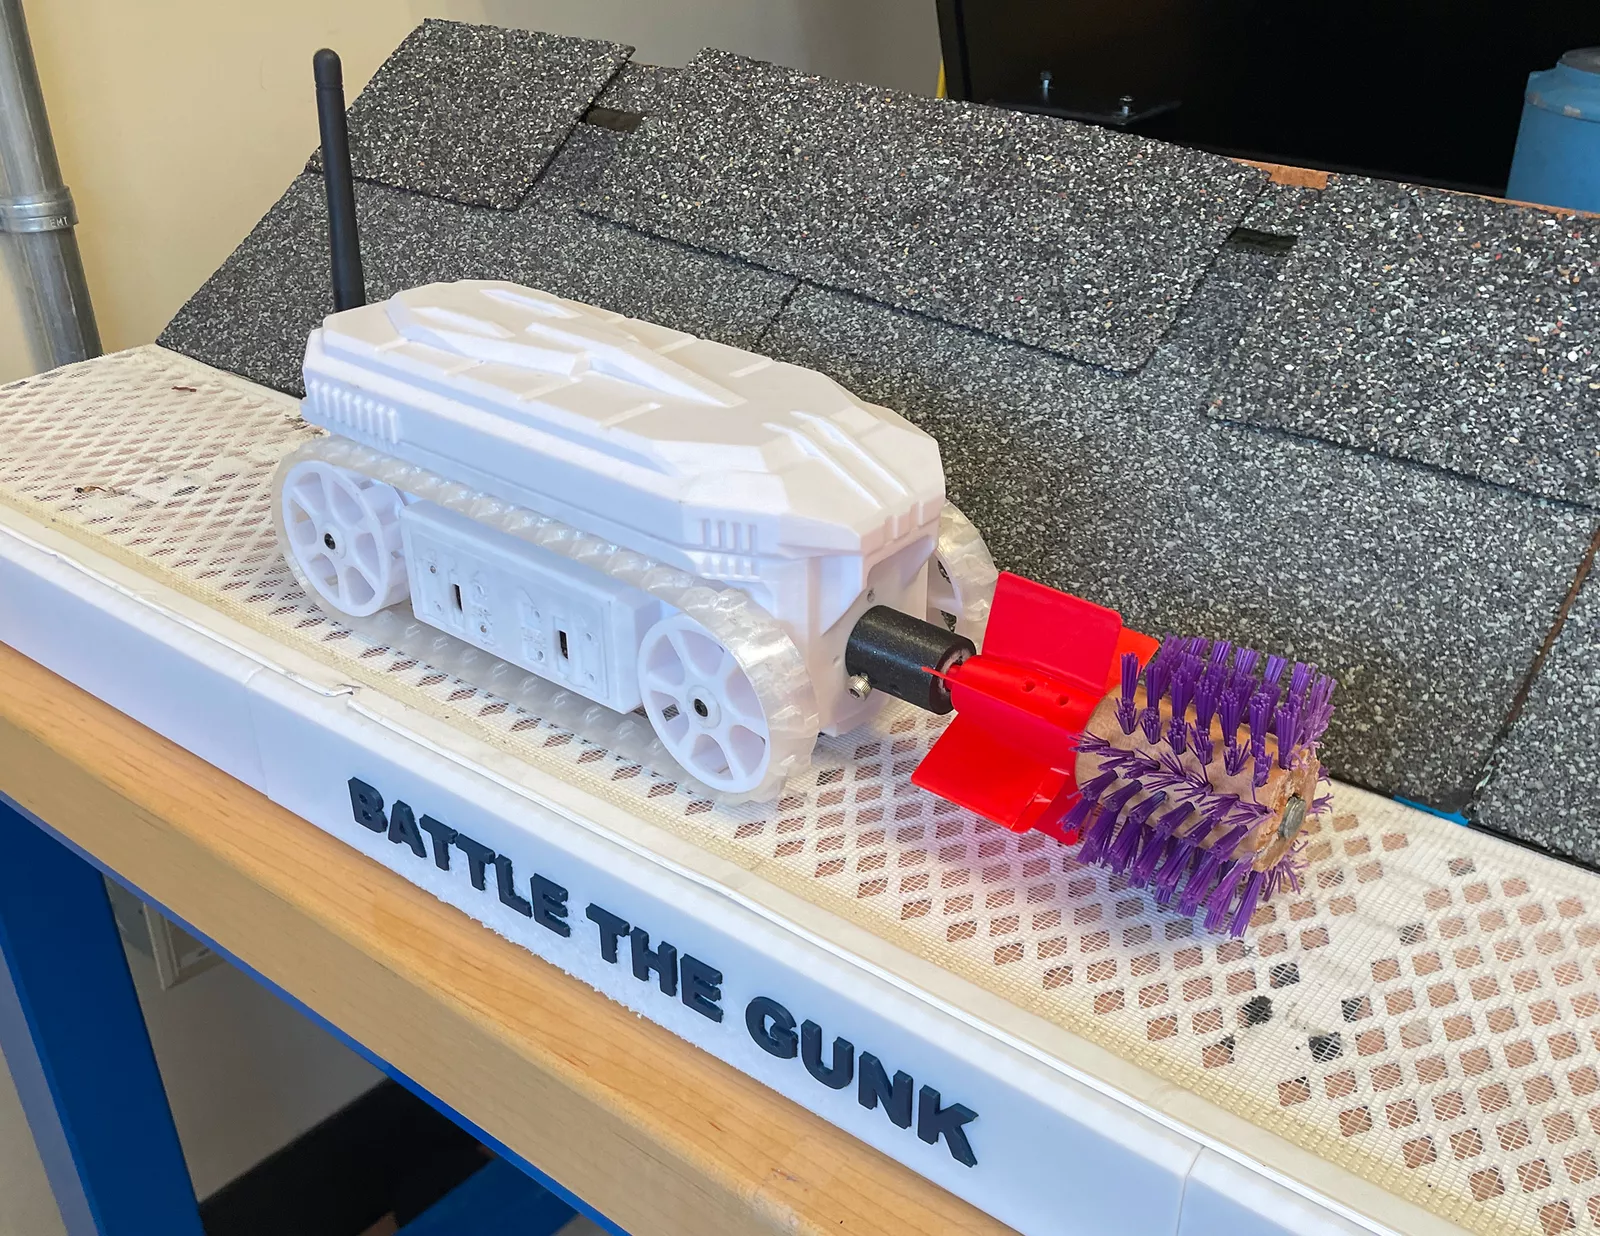
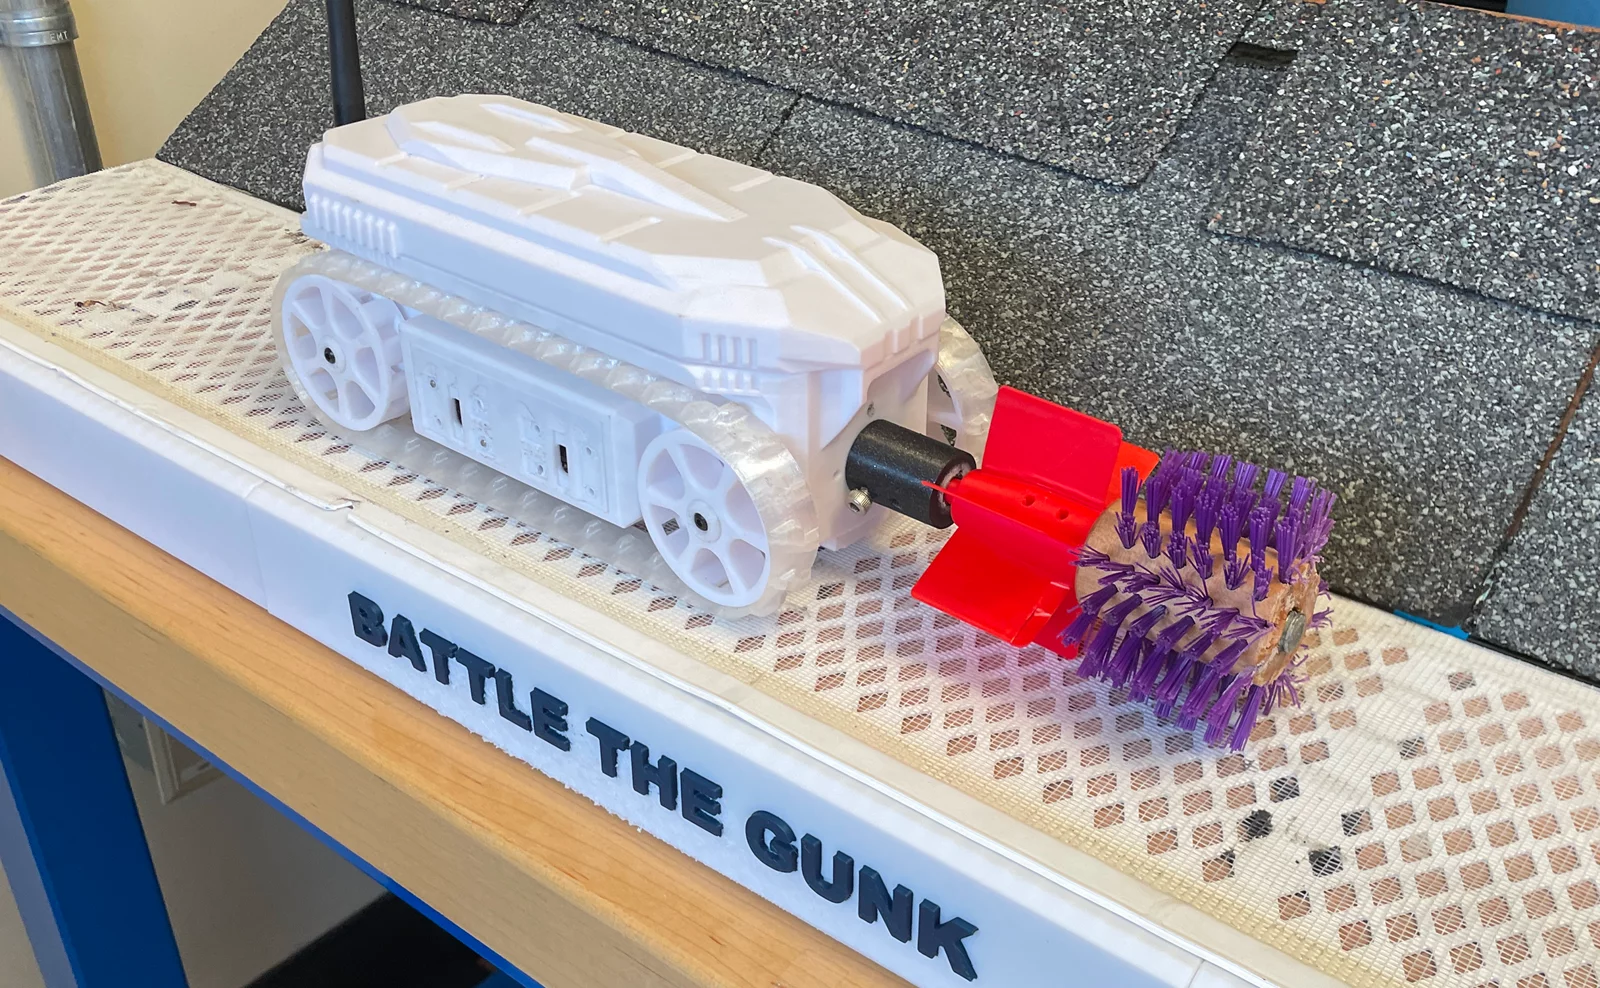
LEGO: library model photo as the first slide; capstone: crop test rig photo, rename heading

diff --git a/projects/lego.html b/projects/lego.html
@@ -40,7 +40,7 @@
       </div>
     </section>
     <section class="text print full">
-        <div class="split flip first"><figure class="gallery split-pic" aria-roledescription="carousel" aria-label="Shell-ejecting builds"><div class="track"><div class="slide"><img src="../images/3-lego-ump.gif" alt="LEGO UMP: shell ejection and blowback" loading="lazy"><span class="slide-cap">UMP (2026)</span></div><div class="slide"><img src="../images/lego-scar-h.gif" alt="LEGO SCAR-H: firing pin blowback and shell ejection" loading="lazy"><span class="slide-cap">SCAR-H (2021)</span></div><div class="slide"><img src="../images/lego-smg.gif" alt="LEGO SMG: shell ejection" loading="lazy"><span class="slide-cap">SMG (2021)</span></div><div class="slide"><img src="../images/lego-ak12.gif" alt="LEGO AK-12: blowback and shell ejection" loading="lazy"><span class="slide-cap">AK-12 (2022)</span></div><div class="slide"><img src="../images/lego-g36c.gif" alt="LEGO G36C: realistic cycling, shell ejection and blowback" loading="lazy"><span class="slide-cap">G36 (2023)</span></div></div><button class="g-prev" type="button" aria-label="previous slide"><svg class="tri left" viewBox="0 0 10 9" aria-hidden="true"><path d="M0 9 L5 0 L10 9 Z"/></svg></button><button class="g-next" type="button" aria-label="next slide"><svg class="tri right" viewBox="0 0 10 9" aria-hidden="true"><path d="M0 9 L5 0 L10 9 Z"/></svg></button><div class="dots"></div><div class="motion-row"><button class="motion-toggle" type="button">pause gifs</button></div></figure><div><h2>My niche</h2><p>I focus on realistic blowback mechanisms that shoot rubber bands, cycle the bolt and eject shells. It took about 5 years, on and off, to develop a reliable mechanism (the UMP) that could cycle 10 rounds continuously, after 4 failed prototypes: the SCAR-H, SMG, AK-12 and G36C, shown here in the gallery.</p><p>It’s a delicate balance between friction, bolt/chamber design, rubber band/spring strengths and aesthetics, achieved using creative LEGO connections and the occasional sanded or custom-cut piece.</p></div></div><div class="split flip"><figure class="gallery clear wide split-pic" aria-roledescription="carousel" aria-label="Brick shooters and replicas"><div class="track"><div class="slide"><img loading="lazy" class="ink" src="../images/msr2.webp" alt="MSR LEGO replica render"></div><div class="slide"><img loading="lazy" class="ink" src="../images/lego/3.webp" alt="LEGO M4 replica render"></div><div class="slide"><img loading="lazy" class="ink" src="../images/lego/5.webp" alt="Building a LEGO replica at my desk"></div><div class="slide"><img loading="lazy" class="ink" src="../images/lego-m1911-or-m2011-2.png" alt="LEGO replica design render"></div><div class="slide"><img loading="lazy" class="ink" src="../images/lego/4.webp" alt="LEGO AKM replica, field stripped"></div></div><button class="g-prev" type="button" aria-label="previous slide"><svg class="tri left" viewBox="0 0 10 9" aria-hidden="true"><path d="M0 9 L5 0 L10 9 Z"/></svg></button><button class="g-next" type="button" aria-label="next slide"><svg class="tri right" viewBox="0 0 10 9" aria-hidden="true"><path d="M0 9 L5 0 L10 9 Z"/></svg></button><div class="dots"></div></figure><div><p>I also design compact brick shooting mechanisms (M4A4, MSR) and pure replicas, mostly to distract myself when I’m stuck on the blowback mechs… As for why guns? They’re the perfect vessel for intricate analog mechanisms. They’re interactive and incredibly satisfying when everything works as designed, and the slo-mos just look awesome.</p></div></div><div class="split flip"><figure class="gallery clear wide split-pic" aria-roledescription="carousel" aria-label="melty’s LEGO YouTube channel"><div class="track"><div class="slide"><img loading="lazy" src="../images/melty-lego-videos-1.webp" alt="Channel videos: LEGO AK-12 updates, shell-ejecting SMG, blowback mechanism and the LEGO SCAR-H (1.4M views)"></div><div class="slide"><img loading="lazy" src="../images/melty-lego-videos-2.webp" alt="Channel videos: LEGO Remington MSR sniper rifle, M1911 and M2011 pistols, and the LEGO G36"></div></div><button class="g-prev" type="button" aria-label="previous slide"><svg class="tri left" viewBox="0 0 10 9" aria-hidden="true"><path d="M0 9 L5 0 L10 9 Z"/></svg></button><button class="g-next" type="button" aria-label="next slide"><svg class="tri right" viewBox="0 0 10 9" aria-hidden="true"><path d="M0 9 L5 0 L10 9 Z"/></svg></button><div class="dots"></div></figure><div><h2>LEGO to MechE</h2><p>In senior year, I started <a href="https://meltydesigns.gumroad.com/">a website</a> to share free designs and a Discord community for young builders, to inspire them toward engineering just as LEGO guns did for me when I was younger. Taking a mechanism apart, figuring it out and improving it is one thing; having a community where people can give you feedback and new ideas, and drive collaboration, is even better. It’s something I aim to keep building through YouTube and the server.</p></div></div><h2 class="sub">More LEGO stuff</h2><div class="split flip"><figure class="gallery clear split-pic" id="more-lego" aria-roledescription="carousel" aria-label="More LEGO builds"><div class="track"><div class="slide"><img class="ink" src="../images/lego/tateuchi-library.webp" alt="LEGO scale model of the Tateuchi East Asia Library" loading="lazy"></div><div class="slide"><img class="ink" src="../images/me493-mini-poster-g4.webp" alt="TreeTop Sweets poster" loading="lazy"></div><div class="slide"><img class="ink" src="../images/lego/kiha-40.webp" alt="LEGO KiHa 40-1000 train at Maeda-Minami Station" loading="lazy"></div><div class="slide"><img class="ink" src="../images/lego/yamanote-e231.webp" alt="LEGO JR Yamanote Line E231 series trains" loading="lazy"></div></div><button class="g-prev" type="button" aria-label="previous slide"><svg class="tri left" viewBox="0 0 10 9" aria-hidden="true"><path d="M0 9 L5 0 L10 9 Z"/></svg></button><button class="g-next" type="button" aria-label="next slide"><svg class="tri right" viewBox="0 0 10 9" aria-hidden="true"><path d="M0 9 L5 0 L10 9 Z"/></svg></button><div class="dots"></div></figure><div data-desc-for="more-lego" aria-live="polite"><div><h3>Scale Model of the Tateuchi Library at UW</h3><p>A parting gift before I left for my master’s, for my time as a student assistant at the Tateuchi East Asia Library.</p></div><div hidden><h3>TreeTop Sweets</h3><p>Another build for fun, for a short capstone: a candy dispenser, now used by my undergrad ME department’s advisor to treat students to something sweet during appointments. I designed it in Studio 2.0 (LEGO CAD) over about 3 days.</p></div><div hidden><h3>KiHa 40-1000 at Maeda-Minami Station</h3><p>Inspired by the movie <i>Your Name</i>.</p></div><div hidden><h3>JR Yamanote Line E231 Series</h3><p>The classic livery of the famous Yamanote Line in Tokyo.</p></div></div></div>
+        <div class="split flip first"><figure class="gallery split-pic" aria-roledescription="carousel" aria-label="Shell-ejecting builds"><div class="track"><div class="slide"><img src="../images/3-lego-ump.gif" alt="LEGO UMP: shell ejection and blowback" loading="lazy"><span class="slide-cap">UMP (2026)</span></div><div class="slide"><img src="../images/lego-scar-h.gif" alt="LEGO SCAR-H: firing pin blowback and shell ejection" loading="lazy"><span class="slide-cap">SCAR-H (2021)</span></div><div class="slide"><img src="../images/lego-smg.gif" alt="LEGO SMG: shell ejection" loading="lazy"><span class="slide-cap">SMG (2021)</span></div><div class="slide"><img src="../images/lego-ak12.gif" alt="LEGO AK-12: blowback and shell ejection" loading="lazy"><span class="slide-cap">AK-12 (2022)</span></div><div class="slide"><img src="../images/lego-g36c.gif" alt="LEGO G36C: realistic cycling, shell ejection and blowback" loading="lazy"><span class="slide-cap">G36 (2023)</span></div></div><button class="g-prev" type="button" aria-label="previous slide"><svg class="tri left" viewBox="0 0 10 9" aria-hidden="true"><path d="M0 9 L5 0 L10 9 Z"/></svg></button><button class="g-next" type="button" aria-label="next slide"><svg class="tri right" viewBox="0 0 10 9" aria-hidden="true"><path d="M0 9 L5 0 L10 9 Z"/></svg></button><div class="dots"></div><div class="motion-row"><button class="motion-toggle" type="button">pause gifs</button></div></figure><div><h2>My niche</h2><p>I focus on realistic blowback mechanisms that shoot rubber bands, cycle the bolt and eject shells. It took about 5 years, on and off, to develop a reliable mechanism (the UMP) that could cycle 10 rounds continuously, after 4 failed prototypes: the SCAR-H, SMG, AK-12 and G36C, shown here in the gallery.</p><p>It’s a delicate balance between friction, bolt/chamber design, rubber band/spring strengths and aesthetics, achieved using creative LEGO connections and the occasional sanded or custom-cut piece.</p></div></div><div class="split flip"><figure class="gallery clear wide split-pic" aria-roledescription="carousel" aria-label="Brick shooters and replicas"><div class="track"><div class="slide"><img loading="lazy" class="ink" src="../images/msr2.webp" alt="MSR LEGO replica render"></div><div class="slide"><img loading="lazy" class="ink" src="../images/lego/3.webp" alt="LEGO M4 replica render"></div><div class="slide"><img loading="lazy" class="ink" src="../images/lego/5.webp" alt="Building a LEGO replica at my desk"></div><div class="slide"><img loading="lazy" class="ink" src="../images/lego-m1911-or-m2011-2.png" alt="LEGO replica design render"></div><div class="slide"><img loading="lazy" class="ink" src="../images/lego/4.webp" alt="LEGO AKM replica, field stripped"></div></div><button class="g-prev" type="button" aria-label="previous slide"><svg class="tri left" viewBox="0 0 10 9" aria-hidden="true"><path d="M0 9 L5 0 L10 9 Z"/></svg></button><button class="g-next" type="button" aria-label="next slide"><svg class="tri right" viewBox="0 0 10 9" aria-hidden="true"><path d="M0 9 L5 0 L10 9 Z"/></svg></button><div class="dots"></div></figure><div><p>I also design compact brick shooting mechanisms (M4A4, MSR) and pure replicas, mostly to distract myself when I’m stuck on the blowback mechs… As for why guns? They’re the perfect vessel for intricate analog mechanisms. They’re interactive and incredibly satisfying when everything works as designed, and the slo-mos just look awesome.</p></div></div><div class="split flip"><figure class="gallery clear wide split-pic" aria-roledescription="carousel" aria-label="melty’s LEGO YouTube channel"><div class="track"><div class="slide"><img loading="lazy" src="../images/melty-lego-videos-1.webp" alt="Channel videos: LEGO AK-12 updates, shell-ejecting SMG, blowback mechanism and the LEGO SCAR-H (1.4M views)"></div><div class="slide"><img loading="lazy" src="../images/melty-lego-videos-2.webp" alt="Channel videos: LEGO Remington MSR sniper rifle, M1911 and M2011 pistols, and the LEGO G36"></div></div><button class="g-prev" type="button" aria-label="previous slide"><svg class="tri left" viewBox="0 0 10 9" aria-hidden="true"><path d="M0 9 L5 0 L10 9 Z"/></svg></button><button class="g-next" type="button" aria-label="next slide"><svg class="tri right" viewBox="0 0 10 9" aria-hidden="true"><path d="M0 9 L5 0 L10 9 Z"/></svg></button><div class="dots"></div></figure><div><h2>LEGO to MechE</h2><p>In senior year, I started <a href="https://meltydesigns.gumroad.com/">a website</a> to share free designs and a Discord community for young builders, to inspire them toward engineering just as LEGO guns did for me when I was younger. Taking a mechanism apart, figuring it out and improving it is one thing; having a community where people can give you feedback and new ideas, and drive collaboration, is even better. It’s something I aim to keep building through YouTube and the server.</p></div></div><h2 class="sub">More LEGO stuff</h2><div class="split flip"><figure class="gallery clear split-pic" id="more-lego" aria-roledescription="carousel" aria-label="More LEGO builds"><div class="track"><div class="slide"><img class="ink" src="../images/lego/tateuchi-library.webp" alt="LEGO scale model of the Tateuchi East Asia Library on display in the library" loading="lazy"></div><div class="slide"><img class="ink" src="../images/me493-mini-poster-g4.webp" alt="TreeTop Sweets poster" loading="lazy"></div><div class="slide"><img class="ink" src="../images/lego/kiha-40.webp" alt="LEGO KiHa 40-1000 train at Maeda-Minami Station" loading="lazy"></div><div class="slide"><img class="ink" src="../images/lego/yamanote-e231.webp" alt="LEGO JR Yamanote Line E231 series trains" loading="lazy"></div></div><button class="g-prev" type="button" aria-label="previous slide"><svg class="tri left" viewBox="0 0 10 9" aria-hidden="true"><path d="M0 9 L5 0 L10 9 Z"/></svg></button><button class="g-next" type="button" aria-label="next slide"><svg class="tri right" viewBox="0 0 10 9" aria-hidden="true"><path d="M0 9 L5 0 L10 9 Z"/></svg></button><div class="dots"></div></figure><div data-desc-for="more-lego" aria-live="polite"><div><h3>Scale Model of the Tateuchi Library at UW</h3><p>A parting gift before I left for my master’s, for my time as a student assistant at the Tateuchi East Asia Library.</p></div><div hidden><h3>TreeTop Sweets</h3><p>Another build for fun, for a short capstone: a candy dispenser, now used by my undergrad ME department’s advisor to treat students to something sweet during appointments. I designed it in Studio 2.0 (LEGO CAD) over about 3 days.</p></div><div hidden><h3>KiHa 40-1000 at Maeda-Minami Station</h3><p>Inspired by the movie <i>Your Name</i>.</p></div><div hidden><h3>JR Yamanote Line E231 Series</h3><p>The classic livery of the famous Yamanote Line in Tokyo.</p></div></div></div>
     </section>
     <div class="text print end"><a class="back" href="../projects.html"><svg class="tri left" viewBox="0 0 10 9" aria-hidden="true"><path d="M0 9 L5 0 L10 9 Z"/></svg>all projects</a></div>
   </main>

diff --git a/projects/senior-capstone.html b/projects/senior-capstone.html
@@ -41,7 +41,7 @@
       </div>
     </section>
     <section class="text print full">
-        <div class="split flip after-hero"><figure class="split-pic"><img class="ink" src="../images/modular.webp" alt="Modular drivetrain: front and rear axle assemblies, bearing tabs and snap-in supports" loading="lazy"><figcaption>CAD had screws, but none were needed.</figcaption></figure><div><h3>Designing for testing in parallel</h3><p>For the chassis and internals, I designed snap-fit modular parts that let us swap out subsystems without reprinting the chassis, cutting development time by about 2 weeks. This also helped us narrow down key dimensions early on to calculate the required motor torque, to speed up electronics downselection.</p><p><b class="hl">A major milestone was designing a drivetrain assembly that properly constrained the wheel axles.</b> This was a challenge because the compact width and spacing left little room, and the 2 tensioned TPU treads constantly pulled the wheels together. Knowing the axles would take a lot of lateral and vertical load, I used interference fits in the chassis for ball bearings and added slot-in supports. The rear motors are secured tightly by setbacks in the chassis and the orange battery holder, while the front axles use another set of bearings fitted in a blue tab, which is then secured by the front brush motor’s yellow arch locks. These interlocking designs meant we didn’t need any screws, which kept us sane as prototype issues came up.</p><p><span class="inline-pic"><img class="ink" src="../images/capstone/demo-day.webp" alt="Our team on expo demo day" loading="lazy"></span>And issues sure came up: the night before the expo demo, a teammate rushed the assembly and poked through the battery with the pins of the PCB above it, shorting the board. Thankfully, we salvaged it using spare PCBs and a donated Teensy 4.1, but <b class="hl">it was a great lesson in poka-yoke</b>, which I’ve applied to my assembly designs ever since. Nervous smiles in our demo-day pic here.</p></div></div><div class="split flip"><figure class="split-pic"><img class="ink" src="../images/capstone/tof-test-rig.webp" alt="The robot on our 2 m gutter test rig" loading="lazy"></figure><div><h3>Optimizing sensor position for closed-loop control</h3><p>One challenge was deciding where the ToF sensors should point on the gutter cover, as there’s often no consistent vertical wall. I first designed swappable attachment configurations for the ToF sensors, which we used on a 2 m gutter test rig to find a suitable angle. We chose an angle that gave enough distance for the sensor’s minimum threshold and held consistent readings for an edge ~2 inches away, giving us enough warning before the robot got too close to the edge.</p></div></div><div class="split flip"><figure class="split-pic"><img class="ink" src="../images/tof-sensors.webp" alt="ToF sensor layout, the side sensor tilt and position testers, and the angled and vertical attachments" loading="lazy"></figure><div><p>During operation, the main brush also changed the robot’s heading unpredictably depending on debris density. I extended the chassis to fit 2 ToF sensors on each side, to roughly estimate yaw from the difference in distance readings on the roof side of the robot. This gave us continuous distance readings for a feedback controller for the differential-drive motors, letting us hold a constant heading.</p></div></div>
+        <div class="split flip after-hero"><figure class="split-pic"><img class="ink" src="../images/modular.webp" alt="Modular drivetrain: front and rear axle assemblies, bearing tabs and snap-in supports" loading="lazy"><figcaption>CAD had screws, but none were needed.</figcaption></figure><div><h3>Designing for parallel testing</h3><p>For the chassis and internals, I designed snap-fit modular parts that let us swap out subsystems without reprinting the chassis, cutting development time by about 2 weeks. This also helped us narrow down key dimensions early on to calculate the required motor torque, to speed up electronics downselection.</p><p><b class="hl">A major milestone was designing a drivetrain assembly that properly constrained the wheel axles.</b> This was a challenge because the compact width and spacing left little room, and the 2 tensioned TPU treads constantly pulled the wheels together. Knowing the axles would take a lot of lateral and vertical load, I used interference fits in the chassis for ball bearings and added slot-in supports. The rear motors are secured tightly by setbacks in the chassis and the orange battery holder, while the front axles use another set of bearings fitted in a blue tab, which is then secured by the front brush motor’s yellow arch locks. These interlocking designs meant we didn’t need any screws, which kept us sane as prototype issues came up.</p><p><span class="inline-pic"><img class="ink" src="../images/capstone/demo-day.webp" alt="Our team on expo demo day" loading="lazy"></span>And issues sure came up: the night before the expo demo, a teammate rushed the assembly and poked through the battery with the pins of the PCB above it, shorting the board. Thankfully, we salvaged it using spare PCBs and a donated Teensy 4.1, but <b class="hl">it was a great lesson in poka-yoke</b>, which I’ve applied to my assembly designs ever since. Nervous smiles in our demo-day pic here.</p></div></div><div class="split flip"><figure class="split-pic"><img class="ink" src="../images/capstone/tof-test-rig.webp" alt="The robot on our 2 m gutter test rig" loading="lazy"></figure><div><h3>Optimizing sensor position for closed-loop control</h3><p>One challenge was deciding where the ToF sensors should point on the gutter cover, as there’s often no consistent vertical wall. I first designed swappable attachment configurations for the ToF sensors, which we used on a 2 m gutter test rig to find a suitable angle. We chose an angle that gave enough distance for the sensor’s minimum threshold and held consistent readings for an edge ~2 inches away, giving us enough warning before the robot got too close to the edge.</p></div></div><div class="split flip"><figure class="split-pic"><img class="ink" src="../images/tof-sensors.webp" alt="ToF sensor layout, the side sensor tilt and position testers, and the angled and vertical attachments" loading="lazy"></figure><div><p>During operation, the main brush also changed the robot’s heading unpredictably depending on debris density. I extended the chassis to fit 2 ToF sensors on each side, to roughly estimate yaw from the difference in distance readings on the roof side of the robot. This gave us continuous distance readings for a feedback controller for the differential-drive motors, letting us hold a constant heading.</p></div></div>
     </section>
     <section class="pics">
       <figure><img class="ink" src="../images/gutter-cleaning-robot.webp" alt="" loading="lazy"></figure>
